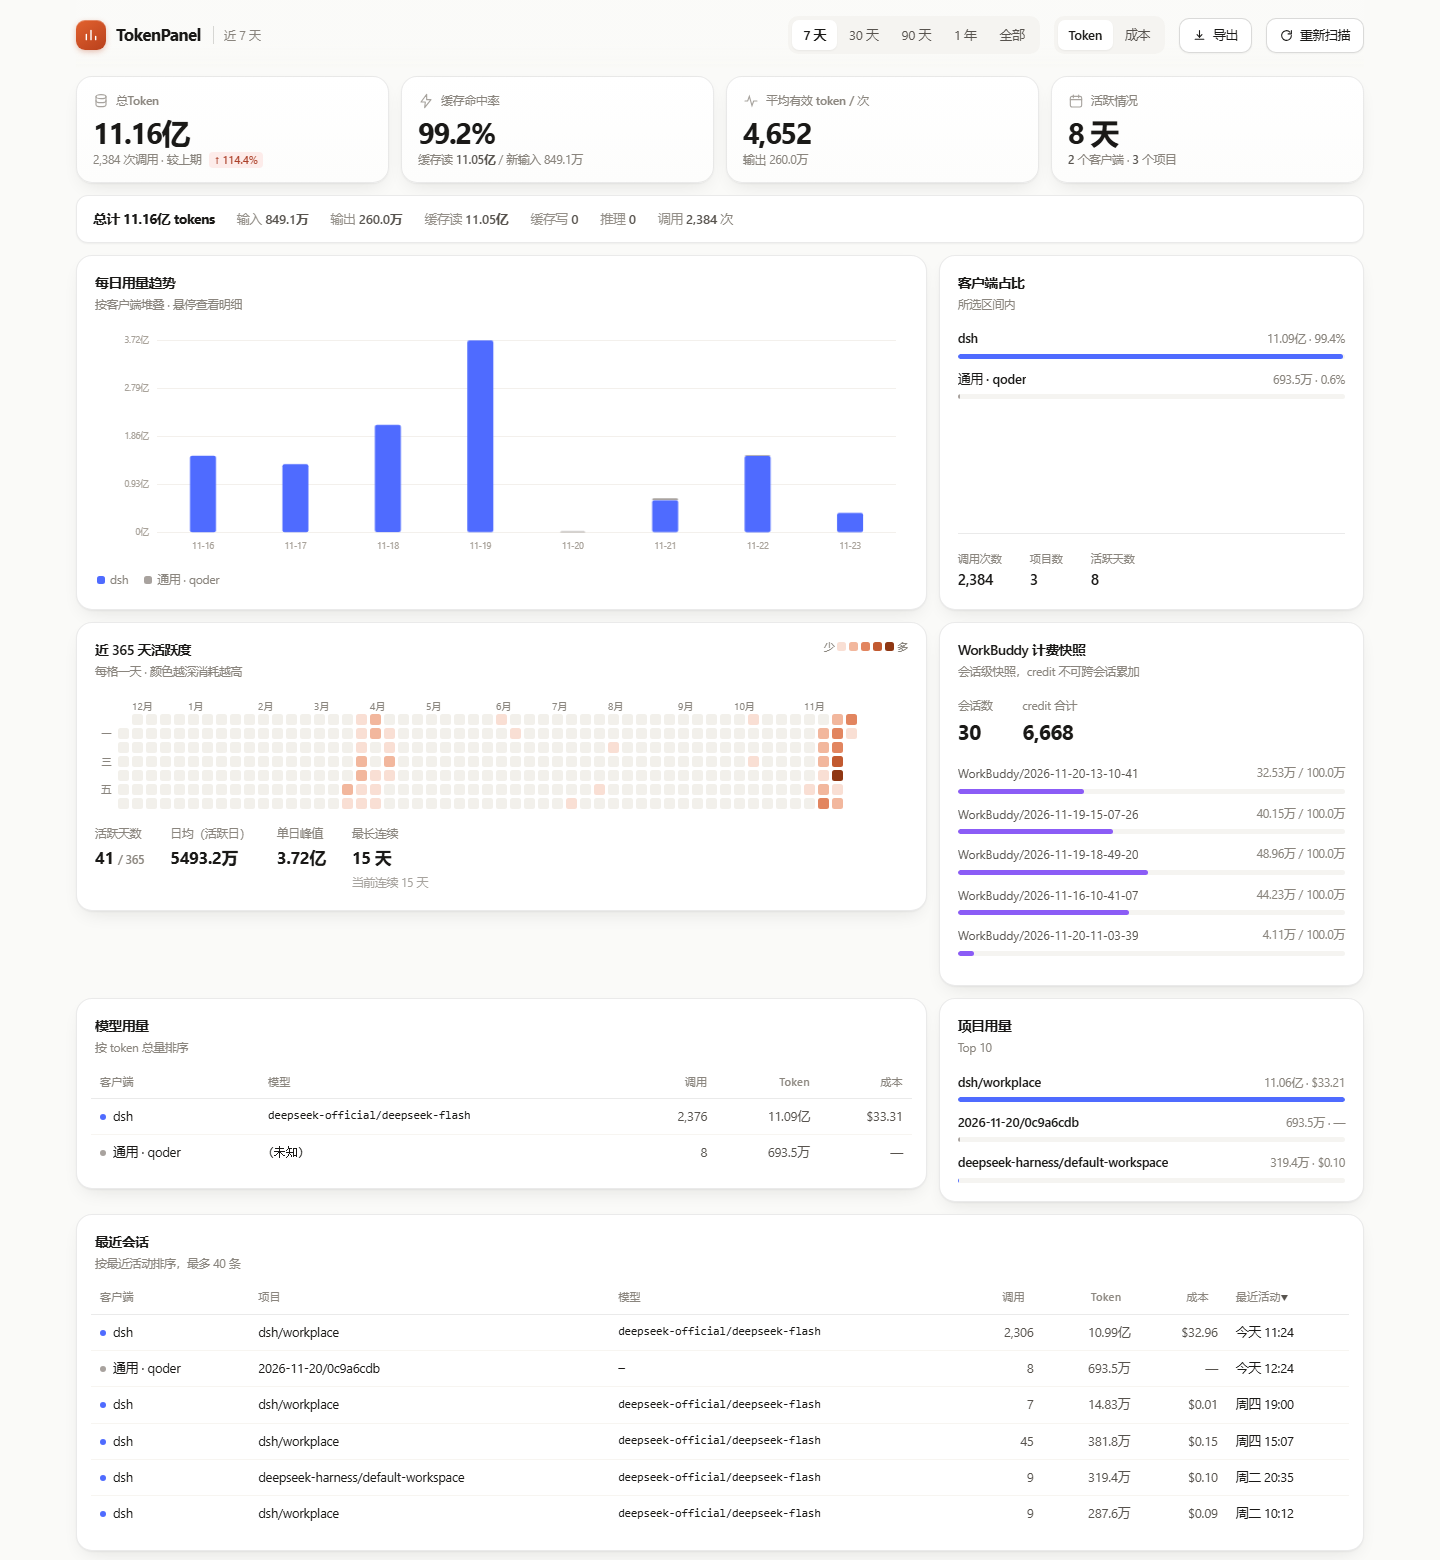
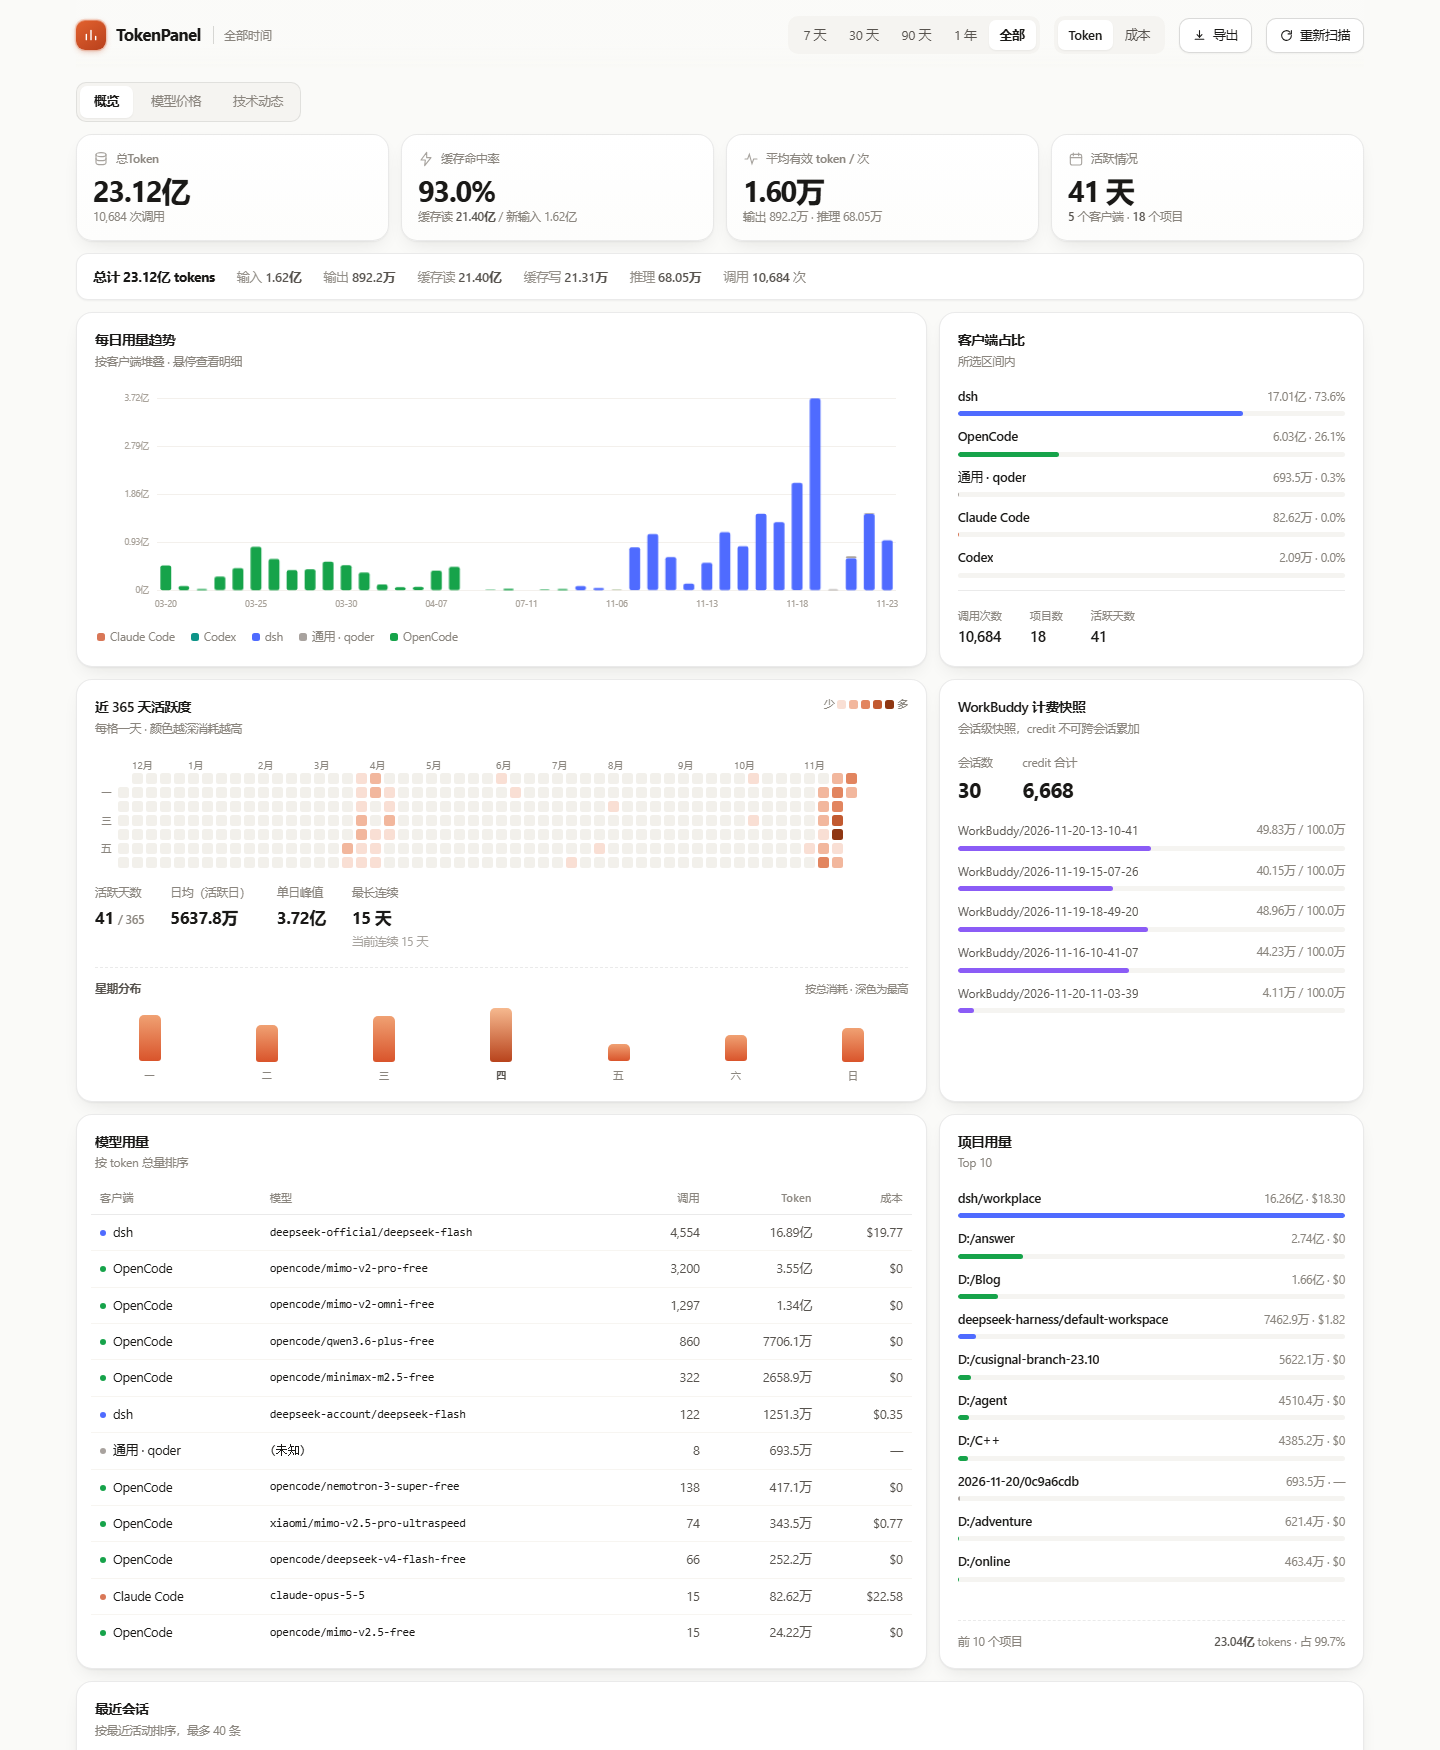
feat: 消除布局空白并加入动效
布局：
- 热力图行改为等高，新增「星期分布」填满底部空洞
- 模型/项目行等高，项目卡补「前 10 合计 · 占比」并贴底
- 修复占比分母错误（接口只返回前 10，恒为 100%）

动效：
- 光标跟随暖色光晕（缓动尾随，触屏与减少动效时关闭）
- 品牌标记呼吸光晕、入场模糊过渡、柱状生长、卡片悬停暖色描边

无障碍：
- 完整适配 prefers-reduced-motion，补 :focus-visible 焦点样式

diff --git a/tokenpanel/web/index.html b/tokenpanel/web/index.html
@@ -52,6 +52,13 @@
     background:linear-gradient(145deg,#e2622f,#b8401c);
     box-shadow:0 2px 6px -1px rgba(184,64,28,.4), inset 0 1px 0 rgba(255,255,255,.28);
     display:grid;place-items:center;
+    animation:breathe 6.5s ease-in-out infinite;
+  }
+  @keyframes breathe{
+    0%,100%{box-shadow:0 2px 6px -1px rgba(184,64,28,.4), inset 0 1px 0 rgba(255,255,255,.28),
+      0 0 0 0 rgba(226,98,47,.28)}
+    50%{box-shadow:0 2px 6px -1px rgba(184,64,28,.4), inset 0 1px 0 rgba(255,255,255,.28),
+      0 0 0 7px rgba(226,98,47,0)}
   }
   .mark svg{width:16px;height:16px;display:block}
   .brand h1{font-size:16.5px;font-weight:650;letter-spacing:-.35px;margin:0;white-space:nowrap}
@@ -90,7 +97,8 @@
   @keyframes spin{to{transform:rotate(360deg)}}
 
   /* ---------- 入场 ---------- */
-  @keyframes rise{from{opacity:0;transform:translateY(10px)}to{opacity:1;transform:none}}
+  @keyframes rise{from{opacity:0;transform:translateY(12px);filter:blur(3px)}
+    to{opacity:1;transform:none;filter:blur(0)}}
   .rise{animation:rise var(--dur) var(--ease) both}
   .d1{animation-delay:.04s}.d2{animation-delay:.08s}.d3{animation-delay:.12s}
   .d4{animation-delay:.16s}.d5{animation-delay:.2s}.d6{animation-delay:.24s}
@@ -221,9 +229,14 @@
   .share-foot .vl{display:block;font-size:15px;font-weight:640;letter-spacing:-.3px;
     font-variant-numeric:tabular-nums}
   .card{
+    position:relative;
     background:var(--surface);border:1px solid var(--border);border-radius:var(--r-lg);
     padding:16px 18px 18px;box-shadow:var(--shadow-md);min-width:0;
-    transition:box-shadow .25s var(--ease);
+    transition:box-shadow .3s var(--ease),border-color .3s var(--ease),transform .3s var(--ease);
+  }
+  .card:hover{
+    border-color:rgba(217,84,43,.22);
+    box-shadow:0 1px 2px rgba(24,22,19,.04), 0 12px 28px -14px rgba(217,84,43,.22);
   }
   .card:hover{box-shadow:var(--shadow-lg)}
   .chead{display:flex;align-items:flex-start;justify-content:space-between;gap:12px;margin-bottom:2px}
@@ -284,6 +297,29 @@
   .cell.l3{background:#e2855f}.cell.l4{background:#c25a30}.cell.l5{background:#8f3713}
   @keyframes pop{from{opacity:0;transform:scale(.4)}to{opacity:1;transform:scale(1)}}
   .hstats{display:flex;flex-wrap:wrap;gap:26px;margin-top:16px}
+  #projects{display:flex;flex-direction:column;height:100%}
+  .rank-foot{margin-top:auto;padding-top:12px;border-top:1px dashed var(--border);
+    display:flex;align-items:baseline;justify-content:space-between;gap:10px;
+    font-size:11.5px;color:var(--muted)}
+  .rank-foot b{color:var(--text-2);font-weight:600;font-variant-numeric:tabular-nums}
+  .dow-wrap{margin-top:auto;padding-top:16px}
+  .dow-head{display:flex;align-items:baseline;justify-content:space-between;gap:10px;
+    margin-bottom:10px;padding-top:12px;border-top:1px dashed var(--border)}
+  .dow-head b{font-size:11.5px;font-weight:600;color:var(--text-2)}
+  .dow-head span{font-size:10.5px;color:var(--muted)}
+  .dow{display:flex;align-items:flex-end;gap:8px}
+  .dow .col{flex:1;display:flex;flex-direction:column;align-items:center;gap:6px;min-width:0}
+  .dow .dtrack{height:54px;width:100%;display:flex;align-items:flex-end;justify-content:center;background:none}
+  .dow .bar{
+    width:72%;max-width:22px;border-radius:5px 5px 3px 3px;
+    background:linear-gradient(180deg,#f0a173,#d9542b);
+    transform-origin:bottom;
+    animation:dowgrow .75s var(--ease) both;
+  }
+  .dow .col.top .bar{background:linear-gradient(180deg,#f6b98f,#b8431c)}
+  .dow .lb{font-size:10px;color:var(--muted);white-space:nowrap}
+  .dow .col.top .lb{color:var(--text-2);font-weight:600}
+  @keyframes dowgrow{from{transform:scaleY(.08);opacity:.35}to{transform:scaleY(1);opacity:1}}
   .hstats .lb{font-size:11.5px;color:var(--muted)}
   .hstats .vl{font-size:17px;font-weight:650;letter-spacing:-.4px;margin-top:2px;
     font-variant-numeric:tabular-nums}
@@ -387,6 +423,23 @@
   .disc-path{color:var(--muted);font-family:ui-monospace,Menlo,Consolas,monospace;
     font-size:10.5px;word-break:break-all}
   .disc-note{color:var(--muted);font-size:10.5px}
+
+  /* ---------- 光标光晕 ---------- */
+  .aurora{
+    position:fixed;left:0;top:0;width:520px;height:520px;border-radius:50%;
+    pointer-events:none;z-index:0;opacity:0;
+    background:radial-gradient(circle,
+      rgba(255,150,90,.20) 0%,
+      rgba(217,84,43,.10) 38%,
+      rgba(217,84,43,.035) 58%,
+      transparent 72%);
+    filter:blur(18px);
+    transition:opacity .7s var(--ease);
+    transform:translate3d(-9999px,-9999px,0);
+    will-change:transform;
+  }
+  .aurora.on{opacity:1}
+  .wrap{position:relative;z-index:1}
 
   /* ---------- 栏目切换 ---------- */
   .tabs{display:flex;gap:4px;margin:14px 0 12px;padding:3px;background:var(--surface-2);
@@ -496,7 +549,9 @@
 
   /* ---------- 尊重系统的减少动效偏好 ---------- */
   @media (prefers-reduced-motion:reduce){
-    *,*::before,*::after{animation-duration:.001ms!important;animation-iteration-count:1!important;
+    html{scroll-behavior:smooth}
+  :focus-visible{outline:2px solid rgba(217,84,43,.55);outline-offset:2px;border-radius:6px}
+  *,*::before,*::after{animation-duration:.001ms!important;animation-iteration-count:1!important;
       transition-duration:.001ms!important}
   }
 </style>
@@ -580,7 +635,7 @@
     </div>
   </div>
 
-  <div class="grid rise d3">
+  <div class="grid stretch rise d3">
     <div class="card heatcard" id="heatCard">
       <div class="chead">
         <div><h3>近 365 天活跃度</h3><div class="hint">每格一天 · 颜色越深消耗越高</div></div>
@@ -594,6 +649,10 @@
         </div>
       </div>
       <div class="hstats" id="heatStats"></div>
+      <div class="dow-wrap">
+        <div class="dow-head"><b>星期分布</b><span>按总消耗 · 深色为最高</span></div>
+        <div class="dow" id="dow"></div>
+      </div>
     </div>
     <div class="card">
       <div class="chead"><div><h3>WorkBuddy 计费快照</h3><div class="hint">会话级快照，credit 不可跨会话累加</div></div></div>
@@ -601,7 +660,7 @@
     </div>
   </div>
 
-  <div class="grid rise d4">
+  <div class="grid stretch rise d4">
     <div class="card">
       <div class="chead"><div><h3>模型用量</h3><div class="hint">按 token 总量排序</div></div></div>
       <div class="tablewrap">
@@ -709,6 +768,7 @@
   </footer>
 </div>
 
+<div class="aurora" id="aurora" aria-hidden="true"></div>
 <div class="toast" id="toast"></div>
 
 <script>
@@ -1058,6 +1118,35 @@ function renderHeat(h){
     stat("日均（活跃日）", fmt(avg)) +
     stat("单日峰值", fmt(peak)) +
     stat("最长连续", `${best} 天`, cur > 1 ? `当前连续 ${cur} 天` : "");
+
+  renderDow(days, vals);
+}
+
+/* 星期分布：把一年的消耗按周几聚合，补满卡片底部并给出新视角 */
+function renderDow(days, vals){
+  const el = $("#dow");
+  if (!el || !days.length) return;
+
+  const names = ["日", "一", "二", "三", "四", "五", "六"];
+  const sums = new Array(7).fill(0);
+  days.forEach((d, i) => {
+    const wd = new Date(d + "T00:00:00").getDay();
+    sums[wd] += vals[i] || 0;
+  });
+
+  // 按 周一 → 周日 的顺序展示
+  const order = [1, 2, 3, 4, 5, 6, 0];
+  const max = Math.max(...sums, 1);
+  const top = sums.indexOf(max);
+
+  el.innerHTML = order.map((wd, idx) => {
+    const v = sums[wd];
+    const pct = Math.max(5, Math.round(v / max * 100));
+    return `<div class="col ${wd === top ? "top" : ""}" title="${names[wd]} · ${fmt(v)} tokens">
+      <div class="dtrack"><div class="bar" style="height:${pct}%;animation-delay:${REDUCE ? 0 : (idx * 0.04).toFixed(2)}s"></div></div>
+      <div class="lb">${names[wd]}</div>
+    </div>`;
+  }).join("");
 }
 
 function renderModels(rows){
@@ -1077,7 +1166,7 @@ function shortName(p){
   return parts.length > 2 ? "…/" + parts.slice(-2).join("/") : String(p);
 }
 
-function renderProjects(rows){
+function renderProjects(rows, grandTotal){
   const el = $("#projects");
   if (!rows.length){ el.innerHTML = emptyState("暂无数据"); return; }
   const max = Math.max(...rows.map(r=>r.tokens||0), 1);
@@ -1089,7 +1178,19 @@ function renderProjects(rows){
       <div class="track"><i style="width:${pct.toFixed(2)}%;background:${colorOf(r.client)};
         animation-delay:${REDUCE?0:0.04*i}s"></i></div>
     </div>`;
-  }).join("");
+  }).join("") + (() => {
+    const shown = rows.slice(0, 10);
+    const top = shown.reduce((sum, r) => sum + (r.tokens || 0), 0);
+    const total = Number(grandTotal) || 0;
+    const share = total > 0 ? top / total * 100 : null;
+    const shareText = share === null
+      ? ""
+      : ` · 占 ${share >= 99.95 ? "100" : share.toFixed(1)}%`;
+    return `<div class="rank-foot">
+      <span>前 ${shown.length} 个项目</span>
+      <span><b>${fmt(top)}</b> tokens${shareText}</span>
+    </div>`;
+  })();
 }
 
 const SORTS = {
@@ -1370,7 +1471,7 @@ async function load(){
     if (fxRate) state.fx = fxRate;
     state.trendData = tr;
     renderKpis(ov); renderLedger(ov); renderTrend(tr); renderShare(ov);
-    renderHeat(heat); renderModels(md); renderProjects(pj);
+    renderHeat(heat); renderModels(md); renderProjects(pj, ov.tokens);
     renderSessions(ss); renderWB(cr); renderHealth(hl);
     applyScan(hl.scan); syncExport(d);
     renderDiscovery(disc); renderEmptyGuide(ov, disc);
@@ -1769,6 +1870,39 @@ $("#blogFeeds").addEventListener("click", e => {
 
 initViews();
 if (document.body.dataset.view !== "dash") switchView(document.body.dataset.view);
+
+/* 光标光晕：跟随指针的暖色柔光。减少动效或触屏设备时自动关闭 */
+(function aurora(){
+  const el = document.getElementById("aurora");
+  if (!el || REDUCE) return;
+  if (window.matchMedia && window.matchMedia("(hover: none)").matches) return;
+
+  const R = 260;                       // 半径，与 CSS 的 520px 对应
+  let tx = window.innerWidth * 0.5, ty = window.innerHeight * 0.28;
+  let cx = tx, cy = ty, raf = 0;
+
+  function tick(){
+    cx += (tx - cx) * 0.12;
+    cy += (ty - cy) * 0.12;
+    el.style.transform = `translate3d(${cx - R}px, ${cy - R}px, 0)`;
+    if (Math.abs(tx - cx) > 0.6 || Math.abs(ty - cy) > 0.6){
+      raf = requestAnimationFrame(tick);
+    } else {
+      raf = 0;
+    }
+  }
+
+  window.addEventListener("pointermove", e => {
+    tx = e.clientX;
+    ty = e.clientY;
+    el.classList.add("on");
+    el.style.transform = `translate3d(${tx - R}px, ${ty - R}px, 0)`;
+    if (!raf) raf = requestAnimationFrame(tick);
+  }, {passive: true});
+
+  document.addEventListener("pointerleave", () => el.classList.remove("on"));
+  window.addEventListener("blur", () => el.classList.remove("on"));
+})();
 
 /* 心跳：让服务知道窗口还开着；关闭后服务会自动退出 */
 (function heartbeat(){

diff --git a/tokenpanel/__init__.py b/tokenpanel/__init__.py
@@ -1,3 +1,3 @@
 """TokenPanel - 本地 AI 客户端 token 用量面板。"""
 
-__version__ = "0.2.1"
+__version__ = "0.2.2"

diff --git a/docs/release-notes-v0.2.2.md b/docs/release-notes-v0.2.2.md
@@ -1,0 +1,49 @@
+# TokenPanel v0.2.2 — 消除空白，加入呼吸感
+
+这一版只改视觉与手感，统计逻辑没有变化。
+
+## 空白是怎么来的
+
+右侧「WorkBuddy 计费快照」有 5 条会话，比左侧热力图高出一百多像素。两栏用 `align-items:start` 对齐时，左侧卡片不会拉伸，于是下面留出一块纯背景色的空洞。
+
+修法不是把卡片压扁，而是**用有用的内容填满**：
+
+- 新增「星期分布」——把一年的消耗按周一到周日聚合，7 根柱子，最高的一天用深色高亮
+- 两栏改为等高，分布图贴底，卡片底部齐平
+
+同一行的「模型用量 / 项目用量」也有类似错位，项目卡补了一行合计并贴底：
+
+```
+前 10 个项目                    23.04亿 tokens · 占 99.7%
+```
+
+> 顺带修了一个数据错误：这个百分比最初恒显示 100%，因为接口只返回前 10 个项目，分母算成了自己。
+
+## 动效
+
+| 效果 | 说明 |
+|---|---|
+| **光标光晕** | 520px 暖色柔光跟随指针，0.12 的缓动系数形成尾随感，不抢内容 |
+| **品牌呼吸** | 左上角标记以 6.5 秒周期轻柔扩散光晕 |
+| **入场过渡** | 卡片自下而上浮入，附带 3px 模糊消散 |
+| **柱状生长** | 星期分布从底部生长，7 根依次错开 40ms |
+| **卡片悬停** | 上浮 + 暖色描边 + 柔和投影 |
+
+### 全部可关闭
+
+系统开启「减少动效」时：光晕不初始化、所有动画降为瞬时、保留最终状态。触屏设备（`hover: none`）同样不启用光晕。
+
+## 无障碍
+
+- 补了 `:focus-visible` 键盘焦点样式，颜色与品牌主色一致
+- 页面滚动改为平滑，但同样受「减少动效」控制
+
+## 验证
+
+- 自检 71 项全通过
+- 1440 宽下逐块截图核对：热力图行、模型/项目行底部均齐平，无残留空洞
+- 光晕用模拟指针事件截图确认位置与强度，文字可读性未受影响
+
+## 升级
+
+直接覆盖旧版 `TokenPanel.exe`。

diff --git a/CHANGELOG.md b/CHANGELOG.md
@@ -2,6 +2,27 @@
 
 遵循 [语义化版本](https://semver.org/lang/zh-CN/)。
 
+## v0.2.2 — 2026-11-23
+
+### 修复
+
+- **消除大面积空白**：右侧 WorkBuddy 卡片更高，把左侧热力图卡撑出 100+ px 空洞；改为等高并用「星期分布」填满
+- 模型用量 / 项目用量同一行的底部错位，项目卡补「前 10 合计 · 占比」并贴底
+- 项目占比分母错误（接口只返回前 10，导致恒为 100%），改用总 Token
+
+### 新增
+
+- **星期分布**：把一年的消耗按周一到周日聚合，7 根柱状图，最高的一天高亮
+- **光标光晕**：跟随指针的暖色柔光，带缓动尾随；触屏与「减少动效」环境自动关闭
+- 品牌标记呼吸光晕、卡片悬停暖色描边、入场模糊过渡、柱状生长动画
+
+### 无障碍
+
+- 完整适配 `prefers-reduced-motion`
+- 补充 `:focus-visible` 键盘焦点样式
+
+---
+
 ## v0.2.1 — 2026-11-23
 
 ### 新增
